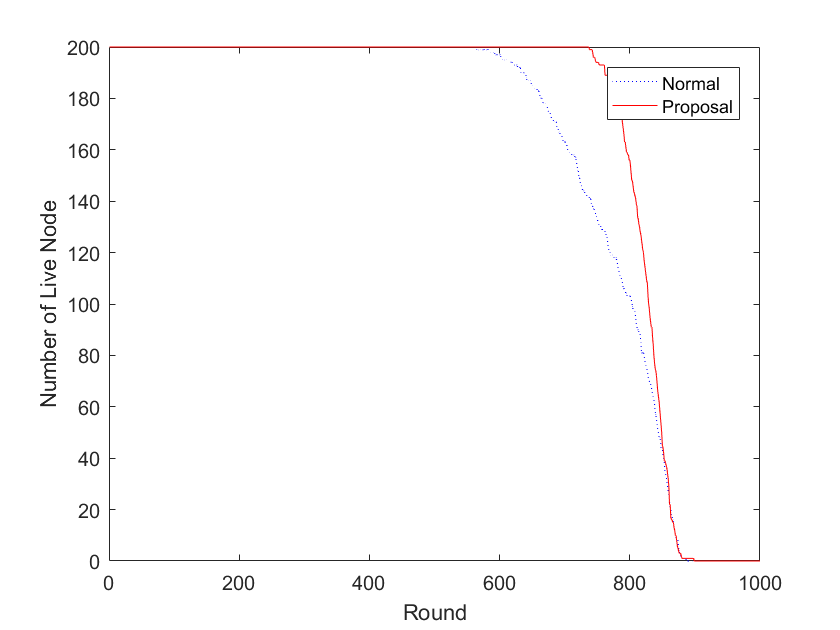
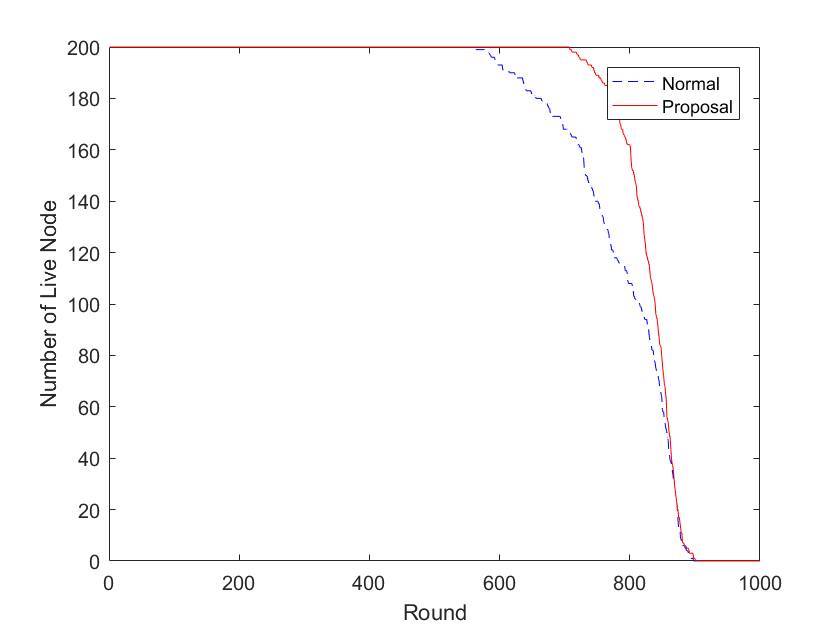
update

diff --git a/leach_v2.m b/leach_v2.m
@@ -363,7 +363,7 @@ end
 %plot(x,y,'r',x,z,'b');
 
 % plot(leach_data(1, [1:rmax]), leach_data(2, [1:rmax]), 'b:', lzw_data(1, [1:rmax]), lzw_data(2, [1:rmax]), 'g--', initil_leach_data(1, [1:rmax]), initil_leach_data(2, [1:rmax]), 'r-');
-plot(leach_data(1, [1:rmax]), leach_data(2, [1:rmax]), 'b:', initil_leach_data(1, [1:rmax]), initil_leach_data(2, [1:rmax]), 'r-');
+plot(leach_data(1, [1:rmax]), leach_data(2, [1:rmax]), 'b--', initil_leach_data(1, [1:rmax]), initil_leach_data(2, [1:rmax]), 'r-');
 xlabel('Round');
 ylabel('Number of Live Node');
 legend('Normal','Proposal');
